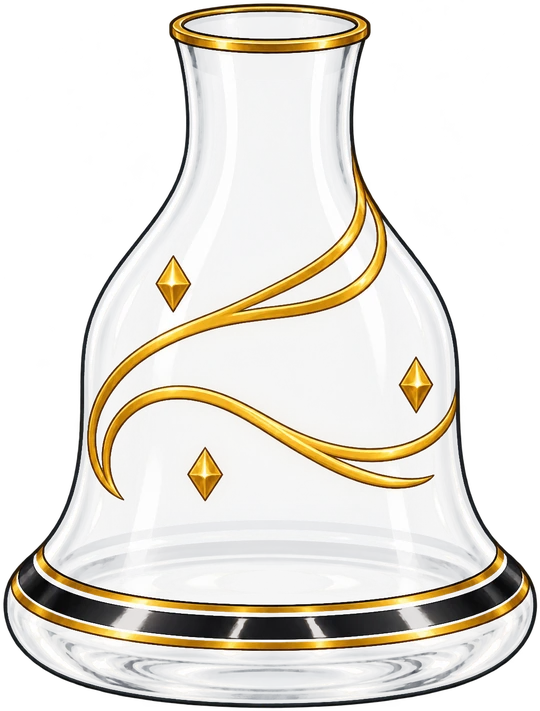
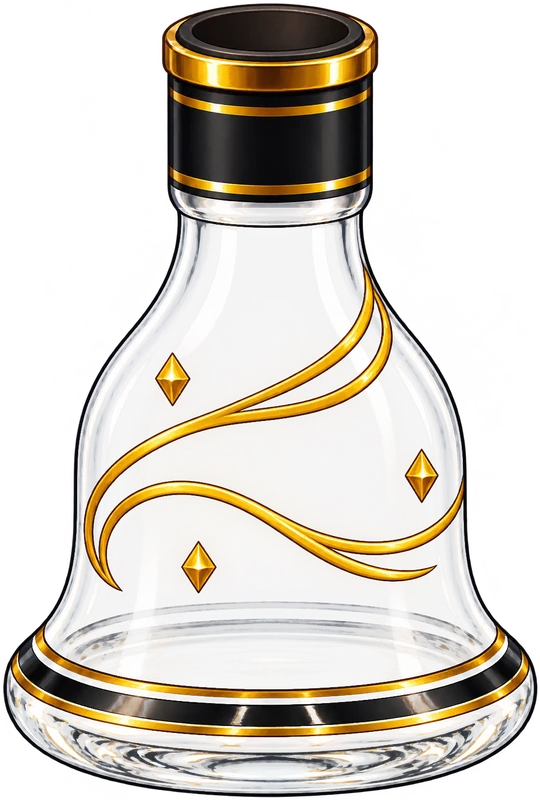
縦画面試作: 水入れのボトルの口を、ステムがはまる受け口の形に直す（VPL82）
- 前回はステムを受ける黒と金の襟を外し、くびれて広がる口にしていた（誤り）
- 実物（日本の店で多いロシア系の台）はベースの口が短くまっすぐな太い首で、ステムの接続部が差し込まれてはまる
- 本編の大会公式モデルの台の絵の襟から下を入力にして作り直し、肩のすぐ上に黒と金の受け口（上が開いて内側にパッキン）
- 蛇口の水は受け口の穴へ入り、手前の縁より下は受け口に隠れて、ガラスの胴の中でまた見える
- shisha_reference §4.1 に「ベース単体の口をくびれた花瓶の口にしない」を足した

Claude-Session: https://claude.ai/code/session_01ACPhX2pZovJZmK6wj7bKg3

diff --git a/remake/previews/portrait-stage/style.css b/remake/previews/portrait-stage/style.css
@@ -615,9 +615,9 @@ html[data-view="play"] #app { height: 100%; display: grid; place-items: center; 
 
 /* 水入れ（VPL36・VPL37）: 作り直したボトル（640×631）の中だけに水が満ちる。水面の色: 赤＝ステムに届いていない、緑＝ちょうど、金＝そのほか */
 /* 水入れ（VPL81）: 口の開いたボトルを蛇口の下で少し傾けて満たす。水・水流・蛇口は傾けない SVG に描き（水面は画面に水平）、ガラスの絵をその上に重ねる */
-.bottle { position: relative; aspect-ratio: 540 / 711; }
+.bottle { position: relative; aspect-ratio: 540 / 800; }
 .b-glass, .bottle-svg { position: absolute; inset: 0; width: 100%; height: 100%; max-width: none; }
-.b-glass { transform-origin: 50% 97.05%; transform: rotate(8deg); filter: drop-shadow(0 1.2rem 1.8rem #000b); pointer-events: none; }
+.b-glass { transform-origin: 50% 98.75%; transform: rotate(8deg); filter: drop-shadow(0 1.2rem 1.8rem #000b); pointer-events: none; }
 .bottle-svg { overflow: visible; }
 .w-faucet { filter: drop-shadow(0 6px 8px #0009); }
 .w-body { opacity: 0.94; } .w-deep { fill: #123f80; opacity: 0.22; }
@@ -625,14 +625,14 @@ html[data-view="play"] #app { height: 100%; display: grid; place-items: center; 
 [data-zone="none"] .w-surf { stroke: #ff8a8a; } [data-zone="ideal"] .w-surf { stroke: #7df0b0; } [data-zone="shallow"] .w-surf, [data-zone="deep"] .w-surf { stroke: #ffe07a; }
 .w-line { fill: none; stroke: #fff3b0; stroke-width: 3.6; stroke-dasharray: 12 8; }
 [data-zone="ideal"] .w-line { stroke: #5fe39a; }
-.w-stream { opacity: 0.8; filter: drop-shadow(0 0 3px #bfeaff); }
+.w-stream { opacity: 0.8; filter: drop-shadow(0 0 3px #bfeaff); } .w-stream.in { opacity: 1; } /* 胴の中の水流はガラス越しなので濃いめ */
 .bottle-svg.fx { pointer-events: none; }
 .w-bubbles circle { fill: #ffffff26; stroke: #e8fbff; stroke-width: 1.6; }
 .w-drops circle { fill: #e2f7ff; }
 .phone[data-scene="water"] .pic { -webkit-mask-image: linear-gradient(180deg, #000 0, #000 95%, transparent 100%); mask-image: linear-gradient(180deg, #000 0, #000 95%, transparent 100%); }
 .water-a { position: absolute; inset: 0; background: radial-gradient(ellipse 70% 46% at 50% 60%, #ffe2a61f, transparent 70%); }
 /* ボトルは下へ寄せる（吹き出しのすぐ上）。大きさは、蛇口（ボトルの上に約230）まで入る高さから決める */
-.water-a .bottle { position: absolute; left: calc(50% - 2.4rem); top: auto; bottom: 2rem; width: min(27.2rem, calc((100cqh - var(--ctrl-h) - var(--aux-h, 0rem) - 13.3rem) * 0.5745)); transform: translateX(-50%); }
+.water-a .bottle { position: absolute; left: calc(50% - 2.4rem); top: auto; bottom: 2rem; width: min(27.2rem, calc((100cqh - var(--ctrl-h) - var(--aux-h, 0rem) - 13.3rem) * 0.536)); transform: translateX(-50%); }
 /* 配合（VPL56）: 上ははかりと器、下は画面の半分を使うフレーバーの一覧。葉は本編のパッケージ、ジャンルの印は店番と同じ */
 /* VPL78（案B「葉の棚」）: 下の画面は 棚（5×2）＋選んだ葉の段＋いちばん下の段（ジャンルと決定）。高さは部品の大きさから決まる。
    上の画面は、はかりを左へ寄せて右に温度帯。はかりの大きさは、残った高さから決める（--sw） */

diff --git a/asset_sources/ui/portrait-stage-20261127/README.md b/asset_sources/ui/portrait-stage-20261127/README.md
@@ -466,3 +466,42 @@ The faucet comes down from above: its pipe enters from the top right corner of t
 Bright chrome with cool grey shading and a thin warm reflected light, a slim golden ring just above the nozzle.
 Do not draw: water, drops, a sink, a wall, a handle, a lever, a hose, a glass, a bottle, hands, text, letters, logos, watermark.
 ```
+
+## 10回目: ボトルの口を受け口の形に作り直し（VPL82・候補2枚から1枚）
+
+オーナー「ボトルの水を入れる口の部分はこんな形ではない　なんかカチッとハマるので　今なんかくびれみたいになってるけど実物調べて見た目リアルにして」。
+9回目のボトルは、ステムを受ける黒と金の襟を外し、くびれて広がる口にしていた（誤り）。実物は、ベースの口が短くまっすぐな太い首（日本の店で多いロシア系の台は開口約45mm）で、ステムの下の接続部がパッキンやクリック式で差し込まれてはまる（[The Premium Way の Russian base](https://thepremiumway.com/products/russian-style-shisha-base-vase-dark-snow)：45mm の口に差し込む型、[El-Badia の Russian Spirit](https://pro.el-badia.com/en/bases/1960-vase-russian-spirit-basic.html)：首の径45mm・パッキンで固定、[SmokeDex](https://smokedex.info/en/community/glossary/hookah-stem-base)：接続の型・径・パッキン・ねじ／差し込みが台ごとに違う）。
+本編の大会公式モデルの台の絵（`remake/img/ui/scene_props/shisha_home_pro.webp`）の、襟から足までを切り出して入力にし、ステムだけを抜いた形で作り直した。黒と金の襟は、ステムがはまるベース側の受け口として残し、上を開けて内側にゴムのパッキンを描かせた。
+
+| 原画（`v3/`） | 試作が読む絵（`remake/previews/portrait-stage/img/`） | 使い道 |
+|---|---|---|
+| `bottle-open-original.webp`（1024×1536。9回目の原画を置き換えた） | `ui-bottle-open.webp`（540×800） | 水入れのボトル。ガラスの面だけ半透明にした（9回目と同じ加工。受け口は不透明のまま）。内側の形・受け口の穴の手前の縁は `app.mjs` の `BOTTLE` |
+| `bottle-open-candidate2-original.webp`（1024×1536） | 使わない | もう1枚の候補。胴が円すいに近く、足の帯の位置も元の台と違うため使わない |
+
+生成前の8行（§4.3）:
+
+```
+人物      : なし
+場面      : 準備中（水入れ。ベース単体。ステムは抜いてある）
+台の型    : 本編の大会公式モデルの台のガラスのベース（鐘形・金の渦と菱形・足に黒と金の帯）。肩のすぐ上に黒と金の受け口（ベース側のクリック式の金具）。上が開いていて内側にゴムのパッキン
+HMD       : なし
+炭        : なし
+ホース    : なし
+吸い口    : なし
+構図      : 正面からわずかに上・直立・ベース全体・背景なし
+```
+
+生成後の確認（§4.4・素材規約の必須チェック）: 受け口は元の台の襟と同じ幅・同じ黒と金で、肩のすぐ上に付き、くびれ・広がる口・長い首が無い。上は開いていて、内側にパッキンの輪と暗い穴が見える。ステム・管・ホースの口・水・台・文字・ロゴが無い。胴の形・金の渦・菱形3つ・足の黒と金の帯は元の台と同じ。合格（2枚のうち1枚を使う）。
+
+```text
+The reference image shows the lower part of a hookah: a black-and-gold cylindrical collar sitting on top of a bell-shaped clear glass base, and a thin metal downstem tube going down inside the glass.
+Redraw exactly this glass base, with the same design and the same polished anime game illustration style (clean dark outlines, two or three tone cel shading): the same bell-shaped clear glass body, the same golden swirl ornament and three small golden diamond marks painted on the glass, the same black and gold bands around the wide foot, and the same black-and-gold collar on top.
+The hookah stem has been pulled out of the base, so the base now stands alone, empty and dry, seen from the front and very slightly from above:
+- The black-and-gold collar stays on the base, exactly as wide and as tall as in the reference. It is the base's click-fit socket that the stem snaps into. It sits directly on the rounded glass shoulder; between the collar and the shoulder there is no extra glass neck, no narrow waist and no flared lip.
+- Because the stem is removed, the top of the collar is open: draw a wide round opening (about 75 percent of the collar width) seen as a flat ellipse, with a thin dark rubber gasket ring lining its inner edge and a slightly darker hollow inside.
+- Remove the metal downstem tube completely; the inside of the glass is empty, with no rod, no tube and no water.
+- The whole base is visible from the top of the collar to the foot, centered, with a small margin on every side.
+- The glass is clear and transparent with a few clean white highlight streaks.
+Fully transparent background.
+Do not draw: the stem, a tube, a rod, hose ports, a hose, a bowl, a tray, charcoal, water, drops, a table, a cast shadow, hands, text, letters, logos, watermark.
+```

diff --git a/docs/owner_requests.md b/docs/owner_requests.md
@@ -179,6 +179,7 @@
 | VPL79 | 🔧 試作（本PR）。試作の配合は −／＋ で1gずつ、はかり・棚の札・選んだ葉の段とも整数で出す。`docs/master_spec.md` の配合の節に「1g単位。小数の刻みは作らない。新しく作る画面では整数で出す」を足した。本編の配合も刻みは1gだが、はかりの表示だけ「12.0 g / 15 g」と小数点つき（本編は今回変えていない） | オーナー「このゲームグラムは1グラム単位まで　0.5とかはやらない」→ 配合のグラムは1g単位。0.5g などの小数の刻みは使わず、重さの表示も整数にする（`docs/master_spec.md` にも記録） |
 | VPL80 | 🔧 試作（本PR）。穴あけの操作パネルの高さを 24.6rem から 34rem へ、刺すボタンを 15rem から 18.4rem へ、周りの点の輪も大きくした（844 の画面）。アルミは 28.6rem に少し大きくして上へ寄り、上の帯との間は約4rem（以前は約15rem）。パネルの左下に、開けた穴の数（0/10）を足した | オーナー「穴あけはもう少しボタンや操作パネルを縦に大きくとってもいいかも上の余白も少し目立たなくなるしあってもいいけど」→ 穴あけの刺すボタンと操作パネルを縦に大きく取り、上の余白を目立たなくする（余白は少し残ってよい） |
 | VPL81 | 🔧 試作（本PR）。水入れを作り直した。①ボトルは口の開いたガラスのベース単体（ステムは外してある）に替えた。本編の大会公式モデルの台のベースを入力にした生成で、ガラスの面は半透明にして水が透けて見える。②上に蛇口（生成）。ボトルは右へ8度傾け、吹き出しのすぐ上まで下げた。③ちょうどいい水位（二本の線のあいだ）を、ボトルの高さの約6割にした（以前は底から約15%）。口の下まで来ると満杯。④水面は左右28本の柱で持ち、波が左右へ伝わって壁で跳ね返る。蛇口の水が当たった所は沈んで両隣が跳ね、泡が上がり、しぶきが跳ねる。注ぎはじめ・注ぎ終わり・ボトルを傾けた時は、水面全体が左右へ揺れてから収まる。⑤「少しこぼす」の間は、ボトルを17度まで傾ける。水量の判定（本編 `water.js` の値）は変えていない。原画・プロンプト・確認は `asset_sources/ui/portrait-stage-20261127/README.md` の9回目 | オーナー「水入れはボトルをもう少し下げていいのと水の量はもう少し多めが丁度いい　ボトルの6割ぐらい　あとボトルをやや斜めにして蛇口をつけて水を入れて充していく感じで　水のリアルなゆらしも入れながら」→ 水入れのボトルを下げる。ちょうどいい水の量を、ボトルの6割ぐらいの高さにする。ボトルを少し斜めに構え、蛇口から水を注いで満たしていく見た目にし、水面が本物らしく揺れるようにする |
+| VPL82 | 🔧 試作（本PR）。前回の生成で、ステムを受ける黒と金の襟を外し、くびれて広がる花瓶のような口にしていたのが誤りだった。実物（日本の店で多いロシア系の台）は、ベースの口が短くまっすぐな太い首（開口は約45mm）で、ステムの下の接続部がパッキンやクリック式でそこへ差し込まれてはまる。本編の大会公式モデルの台の絵（`remake/img/ui/scene_props/shisha_home_pro.webp`）の襟から下を入力にして作り直し、ガラスの肩のすぐ上に黒と金の受け口（ベース側の金具。上が開いていて、内側にゴムのパッキン）が付いた形にした。口の幅は胴の約半分で、くびれは無い。蛇口の水は受け口の穴へ入り、穴の手前の縁より下は受け口に隠れて、ガラスの胴の中でまた見える。ちょうどいい水位（胴の約6割）と水の揺れは前と同じ。`docs/shisha_reference.md` §4.1 に「ベース単体の口をくびれた花瓶の口にしない」を足した | オーナー「ボトルの水を入れる口の部分はこんな形ではない　なんかカチッとハマるので　今なんかくびれみたいになってるけど実物調べて見た目リアルにして」→ 水入れのボトルの口を、実物どおりステムがはまる受け口の形にする |
 
 ## 2026-11-27 縦画面で遊ぶレイアウトの見た目3案（VPL01〜02）
 

diff --git a/remake/README.md b/remake/README.md
@@ -66,7 +66,7 @@ mukaiで行動を使った帰りの裏口では、ふれあいの画面「てつ
 
 縦画面で遊ぶレイアウトの見た目3案（2026-11-27・[要望台帳](../docs/owner_requests.md) の VPL。本編には未接続の見本）は `http://127.0.0.1:8123/remake/previews/portrait-layouts/`。上に絵・真ん中にテロップ・下にパッドや操作パネルの並びを、A 真鍮のゲーム機／B 喫茶の伝票／C 煙の舞台の3案で、同じ4場面（地図・会話・返事・吸い出し）を見比べる。スマホの幅で開くと1台ぶんが画面いっぱいに出て、十字キーとAを押せる（`?view=play&design=a|b|c&scene=map|talk|choice|craft`。PCの一覧は `?view=gallery`）。
 
-縦画面C案「煙の舞台」を第1章の場面で詰めた試作（2026-11-27・要望台帳の VPL03〜81。本編には未接続）は `http://127.0.0.1:8123/remake/previews/portrait-stage/`。橙須の地図（左右キーで隣の店へ画面が送られる・上で全体・下で一覧）、1人と2人の会話の立ち位置、返事、シーシャ作り7工程（水入れ・配合・詰め方・穴あけ・炭焼き・蒸らしの雑念よけ・吸い出し）を、大きくしたパッドで実際に押して確かめる（`?view=play&scene=map|minto|tonari|water|mix|pack|holes|coal|steam|pull|cutin`。補助ボタンは案1、登場カットインは案Aで決定（`scene=cutin&who=minto|sumi`）。作る場面の会場（背景）は `venue=tonari|shop|stage`（`stage` ではランクが出る瞬間に観客のコメントが流れる）。雑念よけのアタックを覚えた後は `attack`。シーシャ作りのランクは案D（工程の終わりに上へどかっと→右上へ）で、見比べ用に `rank=a|b|c`、ランクは `grade=0〜6`（D〜SSS）。PCの一覧は `?view=gallery`）。
+縦画面C案「煙の舞台」を第1章の場面で詰めた試作（2026-11-27・要望台帳の VPL03〜82。本編には未接続）は `http://127.0.0.1:8123/remake/previews/portrait-stage/`。橙須の地図（左右キーで隣の店へ画面が送られる・上で全体・下で一覧）、1人と2人の会話の立ち位置、返事、シーシャ作り7工程（水入れ・配合・詰め方・穴あけ・炭焼き・蒸らしの雑念よけ・吸い出し）を、大きくしたパッドで実際に押して確かめる（`?view=play&scene=map|minto|tonari|water|mix|pack|holes|coal|steam|pull|cutin`。補助ボタンは案1、登場カットインは案Aで決定（`scene=cutin&who=minto|sumi`）。作る場面の会場（背景）は `venue=tonari|shop|stage`（`stage` ではランクが出る瞬間に観客のコメントが流れる）。雑念よけのアタックを覚えた後は `attack`。シーシャ作りのランクは案D（工程の終わりに上へどかっと→右上へ）で、見比べ用に `rank=a|b|c`、ランクは `grade=0〜6`（D〜SSS）。PCの一覧は `?view=gallery`）。
 
 同じ試作に、タイトル・店番（tonari のフロア営業）・LIME・心得の盤・斧投げを縦へ移した場面がある（2026-11-27・要望台帳の VPM01〜18。本編には未接続。十字キーと丸ボタンは置かず、押すだけで進む。心得の盤だけは、オーナーの指定で十字キーと丸ボタンで盤を動かす）。1台表示はタイトルから始まり、タイトル→地図→tonari の入口（「シフトに入る（バイト）」＝店番／「ひよりと斧投げへ」＝斧投げ）、地図の LIME の札→LIME、観音堂→心得の盤、と通せる。直接開くなら `?view=play&scene=title|floor|lime|growth|axe`（店番の営業の種類は `&shift=usual|first|full|tutorial`）。店番のルール・数値・台詞は本編の `js/daily/tonari-floor-model.js`・`tonari-floor-data.js` をそのまま呼び、縦の画面だけ `previews/portrait-stage/floor.mjs`・`title.mjs` に置いている（本編の店番の規則を変えると、この試作にもそのまま効く）。LIME（`lime.mjs`）・心得の盤（`growth.mjs`）・斧投げ（`axe.mjs`）も同じ作りで、本編のデータと規則をそのまま読む。
 
